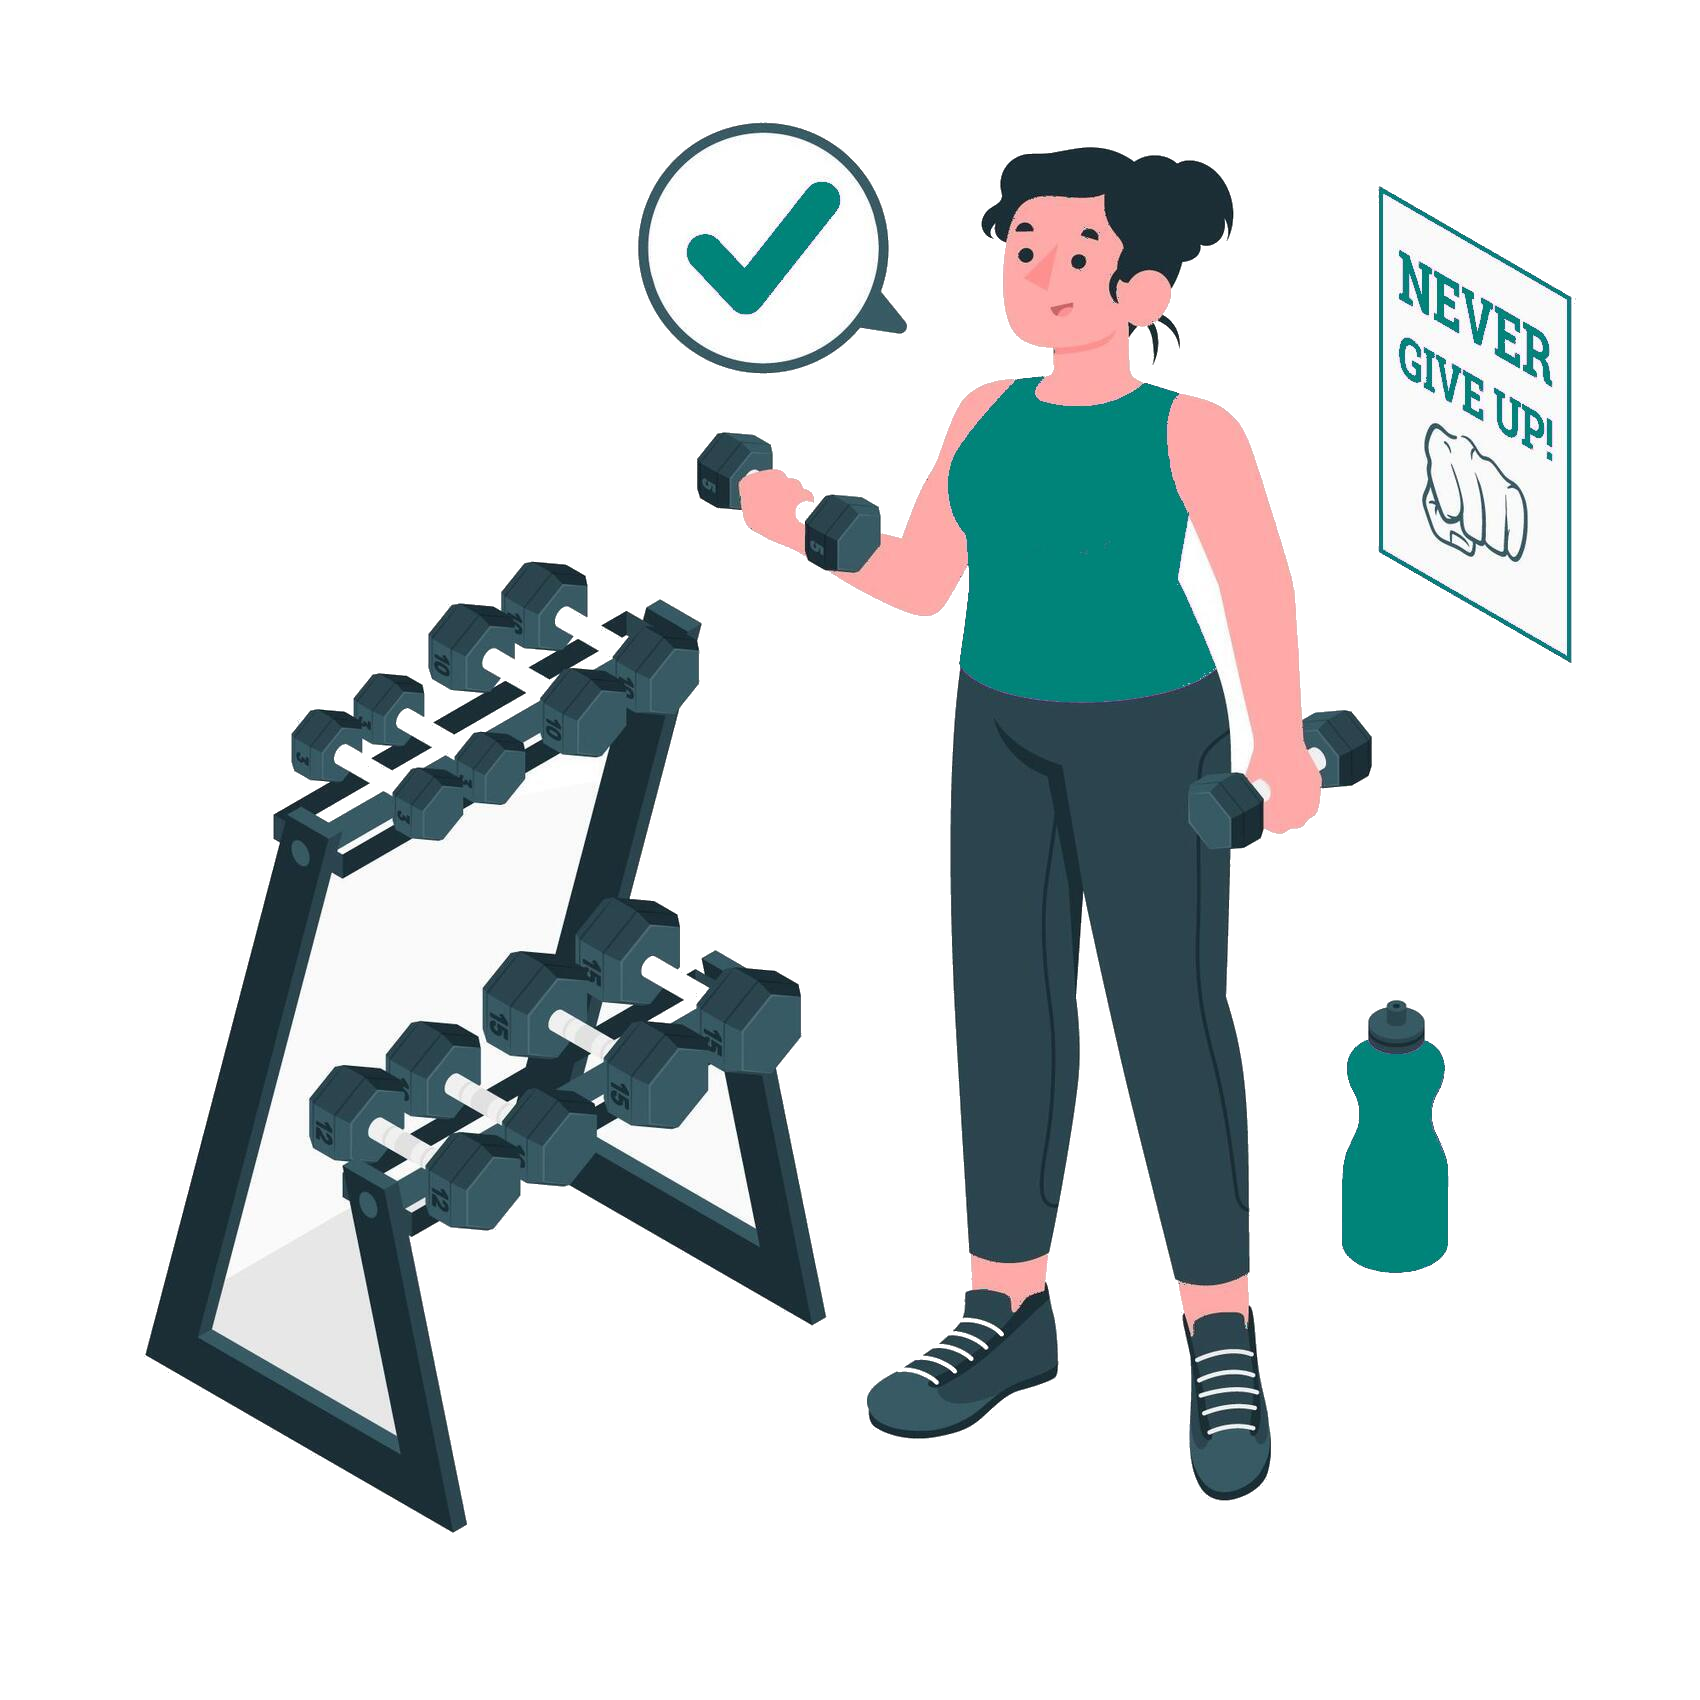
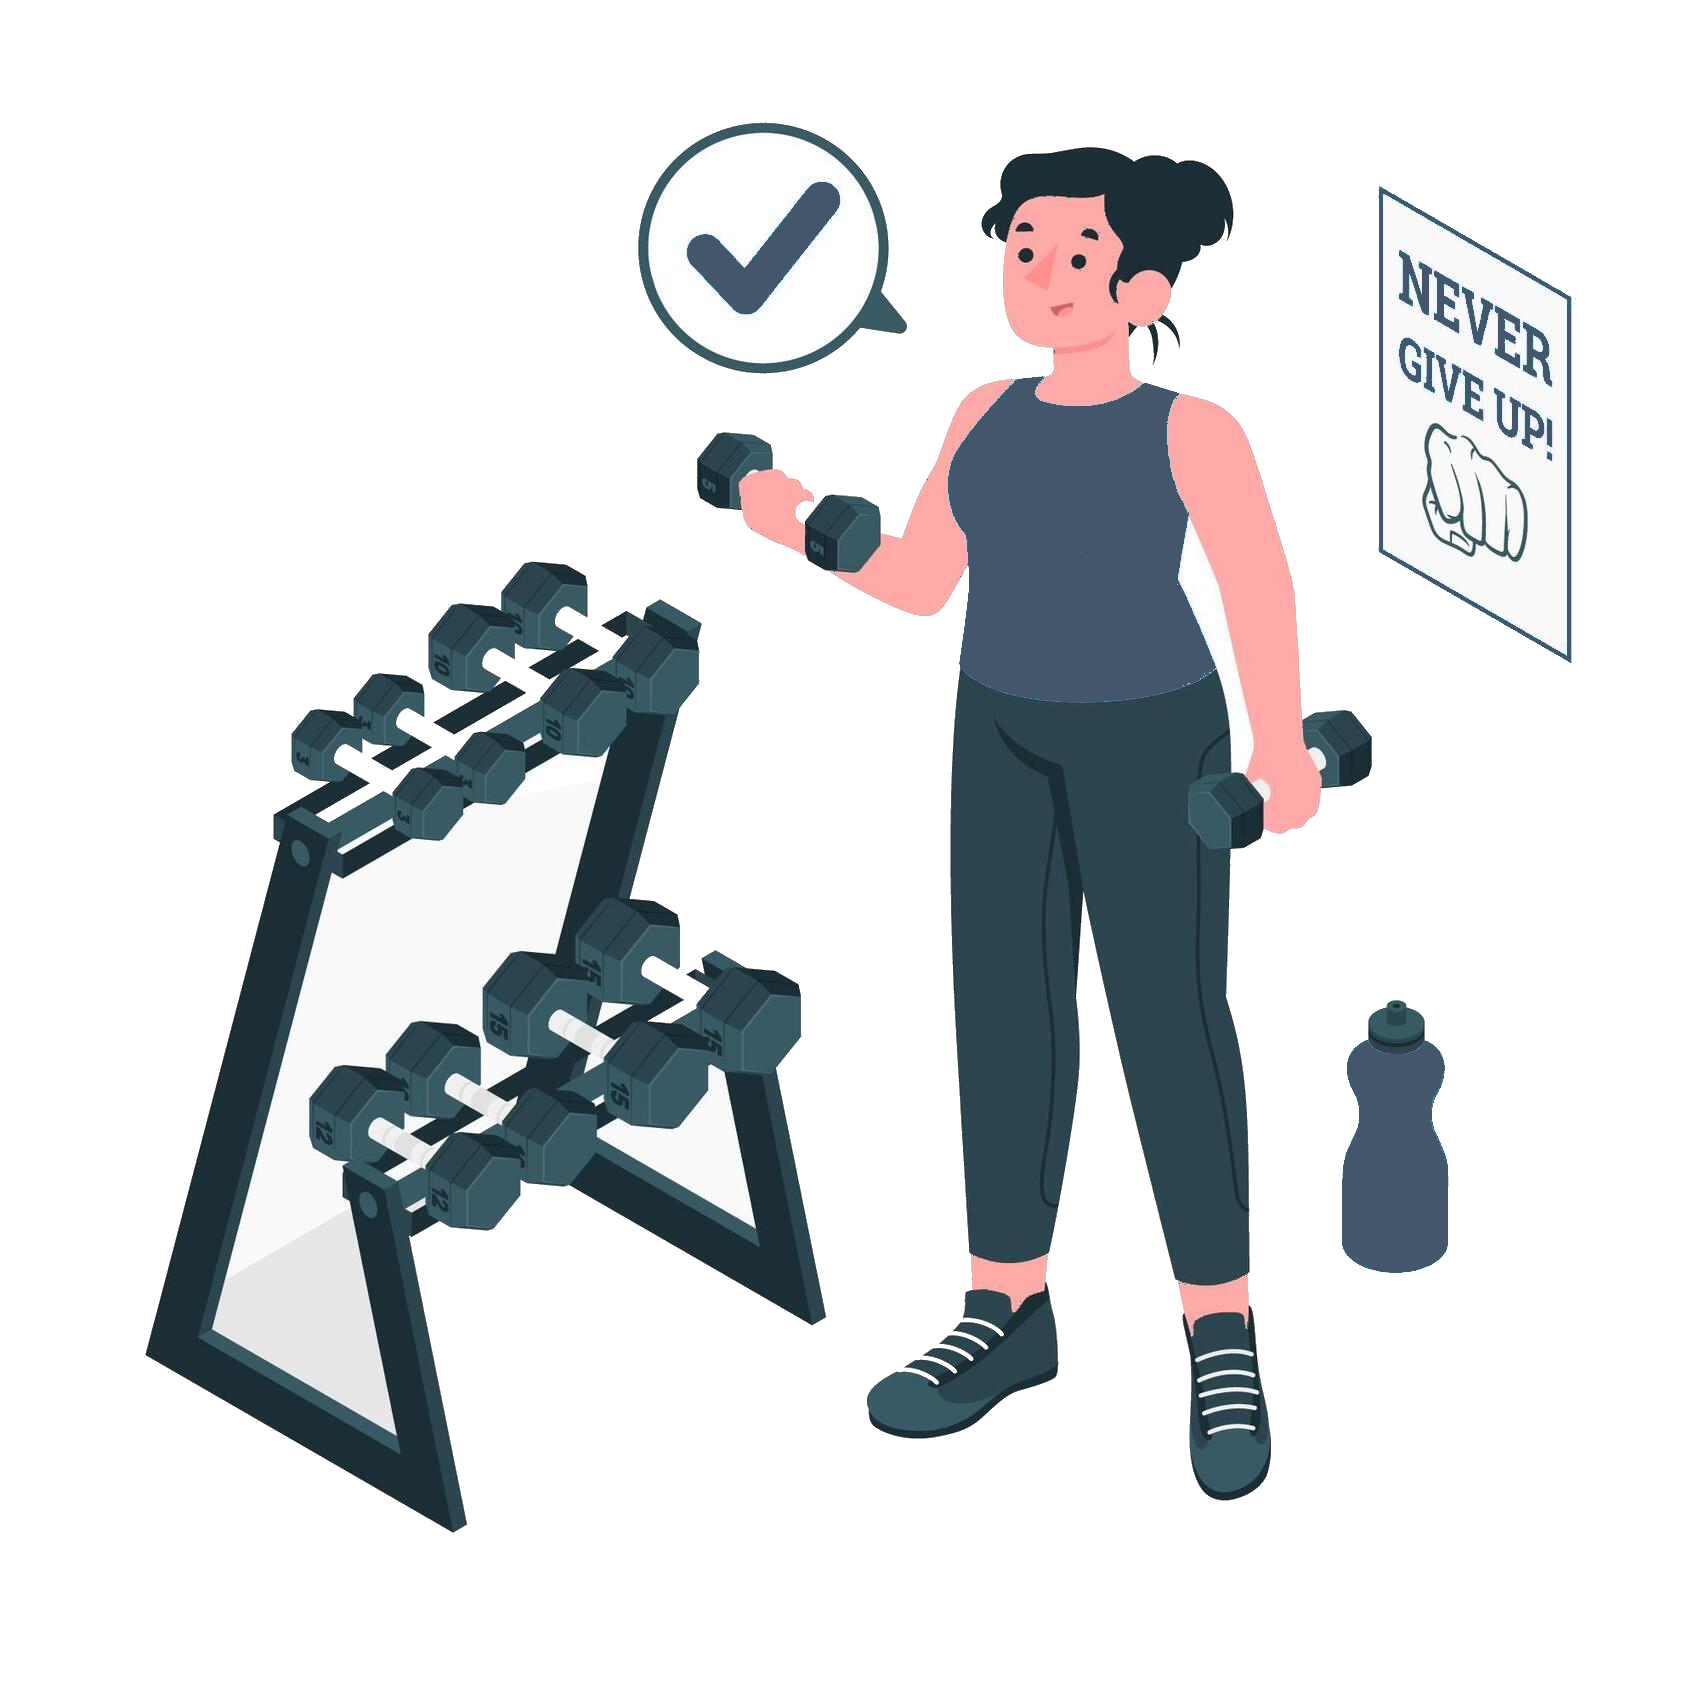
new theme

diff --git a/style.css b/style.css
@@ -1,10 +1,8 @@
-@import url('https://fonts.googleapis.com/css2?family=Montserrat:ital,wght@0,600;1,400;1,700&display=swap');
-@import url('https://fonts.googleapis.com/css2?family=Oswald&display=swap');
-@import url('https://fonts.googleapis.com/css2?family=Montserrat:wght@500&display=swap');
 @font-face {
     font-family: 'Raleway Medium';
     src: url(Raleway/static/Raleway-Medium.ttf);
 }
+
 *{
     margin: 0;
     padding: 0;
@@ -12,7 +10,7 @@
     text-decoration: none;
     list-style: none;
     color: rgb(187, 187, 187);
-    font-family: 'Montserrat', sans-serif;
+    font-family: 'Raleway Medium';
 
     
 }
@@ -119,13 +117,11 @@ section.aboutMe{
 .big-title{
     font-size: 4rem;
     margin-top: 15px;
-    font-family: 'Raleway Medium';
     color: #44566c;
 }
 
 .big-title span{
     color: #4b8ca3;
-    font-family: 'Raleway Medium';
 }
 
 .imageAbout{
@@ -137,7 +133,6 @@ section.aboutMe{
 }
 
 .abouth2{
-    font-family: 'Raleway Medium';
     text-transform: uppercase;
     font-size: 0.9rem;
     font-weight: 400;
@@ -167,16 +162,13 @@ section.aboutMe{
 .firstBloc h1{
     color: #4b8ca3;
     font-size: 4rem;
-    font-family: 'Raleway Medium';
 }
 
 .firstBloc h1 span{
     color:#44566c ;
-    font-family: 'Raleway Medium';
 }
 
 .firstBloc p{
-    font-family: 'Raleway Medium';
     font-weight: 100;
     line-height: 35px;
     margin-top: 40px;
@@ -188,7 +180,6 @@ section.aboutMe{
     padding: 10px 20px;
     color: white;
     margin: 40px 0;
-    font-family: 'Raleway Medium';
     text-transform: uppercase;
     font-weight: 500;
     border: 1px solid #4b8ca3;
@@ -197,16 +188,13 @@ section.aboutMe{
 
 .firstBloc button:hover{
     background-color: white;
-    color:#4b8ca3;;
+    color:#4b8ca3;
 }
 
 .secondBloc{
     display: flex;
     position: relative;
     
-}
-.secondBloc img{
-    z-index: 999;
 }
 
 .thirdBloc{
@@ -216,8 +204,6 @@ section.aboutMe{
     position: absolute;
     bottom: -10%;
     left: 80%;
-    
-   
 }
 
 .thirdBlocCContainer{
@@ -232,8 +218,6 @@ section.aboutMe{
 
 .thirdBloc .guillemet{
     margin-left: 15%;
-    font-family:  'Arial, Helvetica', sans-serif;
-    font-size: 3rem;
 }
 
 .thirdBloc p{
@@ -247,29 +231,6 @@ section.aboutMe{
     color: #4b8ca3;
     font-size: 0.9rem;
 }
-
-
-
-
-
-
-
-
-
-
-
-
-
-
-
-
-
-
-
-
-
-
-
 
 
 /* *********************************************************************************RESPONSIVE******************************************************************* */

diff --git a/contact/styles/contact.css b/contact/styles/contact.css
@@ -1,12 +1,13 @@
-@import url('https://fonts.googleapis.com/css2?family=Montserrat:ital,wght@0,600;1,400;1,700&display=swap');
-@import url('https://fonts.googleapis.com/css2?family=Oswald&display=swap');
-@import url('https://fonts.googleapis.com/css2?family=Montserrat:wght@500&display=swap');
+@font-face {
+    font-family: 'Raleway Medium';
+    src: url(/Raleway/static/Raleway-Medium.ttf);
+}
 
 *{
     margin: 0;
     padding: 0;
     box-sizing: inherit;
-    font-family: "Montserrat", sans-serif;
+    font-family: 'Raleway Medium';
     text-decoration: none;
     list-style: none;
 }
@@ -112,21 +113,19 @@ form{
 }
 
 form h1{
-    color: #122448;
-    font-size: 3rem;
-    font-family: 'Oswald', sans-serif;
+    color: #44566c;
+    font-size: 4rem;
 
 }
 
 form h1 span{
-    color: #008379;
-    font-family: 'Oswald', sans-serif;
+    color: #4b8ca3;
 }
 
 .hr{
     height: 1px;
     width: 60%;
-    background-color: #ffb34d;
+    background-color: #44566c;
     margin: auto;
 }
 
@@ -153,17 +152,18 @@ i{
 
 button{
     margin-top: 20px;
-    border: 1px solid #008379;
+    border: 1px solid #4b8ca3;
     background: none;
     padding: 10px 30px;
     border-radius: 2px;
-    color: #008379;
+    color: #4b8ca3;
     cursor: pointer;
     transition: .4s;
+    text-transform: uppercase;
 }
 
 button:hover{
-    background:#008379 ;
+    background:#4b8ca3; ;
     color: white;
     transition: .4s;
 }
@@ -205,12 +205,12 @@ section img{
     -moz-appearance: none;
     -webkit-appearance: none;
     outline: none;
-    background: #008379;
+    background: #4b8ca3;
     position: relative;
 }
 
 #checkbox:hover {
-    background: #06aa9c;
+    background: #44566c;
 }
 
 #checkbox::before {
@@ -244,7 +244,7 @@ section img{
 .menu .menuItems {
     width: 55px;
     height: 55px;
-    background: #008379;
+    background: #4b8ca3;
     border-left: 1px solid rgb(165, 165, 165);
     display: flex;
     justify-content: center;
@@ -252,7 +252,7 @@ section img{
 }
 
 .menu .menuItems:hover {
-    background: #06aa9c;
+    background: #44566c;
 }
 
 .menu .menuItems i {
@@ -268,10 +268,6 @@ section img{
     section{
         padding-top: 0%;
         width: 90%;
-    }
-
-    form h1{
-        font-size: 2.2rem;
     }
 }
 
@@ -293,10 +289,6 @@ section img{
         height: 410px;
         margin: auto;
         margin-top: 40px;
-    }
-
-    section h1{
-        font-size: 2rem;
     }
 }
 

diff --git a/program/styles/program.css b/program/styles/program.css
@@ -1,21 +1,13 @@
-@import url('https://fonts.googleapis.com/css2?family=Montserrat:ital,wght@0,600;1,400;1,700&display=swap');
-@import url('https://fonts.googleapis.com/css2?family=Oswald&display=swap');
-@import url('https://fonts.googleapis.com/css2?family=Montserrat:wght@500&display=swap');
-
 @font-face {
-    font-family:"Montserrat Regular", sans-serif ;
-    src: url(../Montserrat/Montserrat-Regular.ttf);
+    font-family: 'Raleway Medium';
+    src: url(/Raleway/static/Raleway-Medium.ttf);
 }
 
-@font-face {
-    font-family:'Montserrat SemiBold', sans-serif;
-    src: url(../Montserrat/Montserrat-SemiBold.ttf);
-}
 *{
     margin: 0;
     padding: 0;
     box-sizing: inherit;
-    font-family: 'Montserrat', sans-serif;
+    font-family: 'Raleway Medium';
     list-style: none;
     text-decoration: none;
     color: #333;
@@ -107,25 +99,24 @@
 /* ******************************************************************* */
 
 h1, h1 span{
-    font-family: 'Oswald', sans-serif;
-    color: #122448;
-    font-size: 3rem;
+    color: #44566c;
+    font-size: 4rem;
     text-align: center;
     margin-top: 30px;
 }
 
 h1 span{
-    color: #008379;
+    color: #4b8ca3;
 }
 
 .bigP{
-    font-style: italic;
     width: 35%;
     margin: 20px auto;
     text-align: center;
-    line-height: 30px;
-    color: rgb(88, 88, 88);
-    font-size: 15px;
+    font-weight: 100;
+    line-height: 35px;
+    margin-top: 40px;
+    color: rgb(187, 187, 187);
 }
 
 .flexCart{
@@ -140,7 +131,7 @@ h1 span{
     width: 250px;
     height: 40vh;
     min-height: 300px;
-    box-shadow: 0px 0px 20px 1px #333;
+    box-shadow: 0px 0px 20px 1px #44566c;
     position: relative;
     transition: all .2s;
 }
@@ -152,11 +143,11 @@ h1 span{
 .Cart p{
     position: absolute;
     top: 44%;
-    left: 29%;
-    font-family: 'Oswald', sans-serif;
+    left: 23%;
     font-size: 1.5rem;
     text-transform: uppercase;
     font-style: italic;
+    color: #4b8ca3;
 }
 
 
@@ -252,20 +243,4 @@ h1 span{
         width: 95%;
     }
 
-}
-
-@media (max-width:1300px){
-
-    h1, h1 span{
-        font-size: 2.2rem;
-    }
-}
-
-
-@media (max-width:800px){
-
-
-    h1, h1 span{
-        font-size: 2rem;
-    }
-}
+}   

diff --git a/index.html b/index.html
@@ -52,7 +52,9 @@
           </a>
         </div>
         <div class="secondBloc">
-          <img src="img/testPersonne.jpg" alt="" style="width: 230px" />
+          <div class="blocImage" style="width: 230px; height: 345px; overflow: hidden; z-index: 999;">
+          <img src="img/photoMoi.jpg" alt="" style="width: 230px; height: 380px;"  />
+        </div>
           <div class="thirdBloc">
             <div class="thirdBlocCContainer">
               <div class="guillemet">

diff --git a/contact/contact.html b/contact/contact.html
@@ -23,7 +23,7 @@
   </nav>
     <section>
         <form method="post" action="https://formspree.io/f/mwkadneb" id="my-form">
-            <h1>Need information,<br /> <span>contact-me</span> !</h1>
+            <h1>Need information, <span>contact-me</span> !</h1>
             <aside class="aside-first">
                 <i class="fas fa-user"></i>
                 <input type="text" name="name" placeholder="Name" required>
